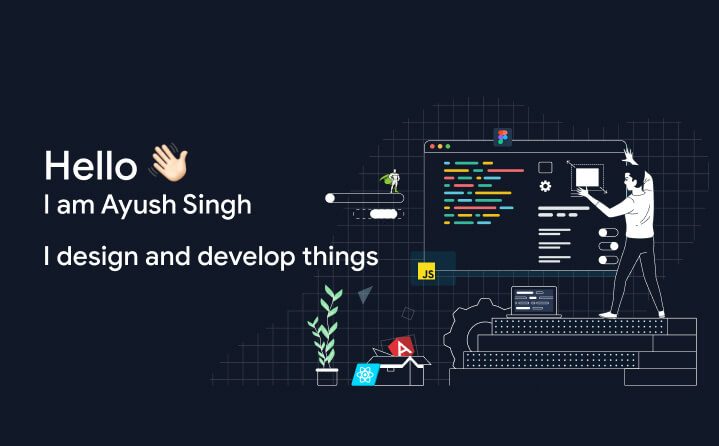
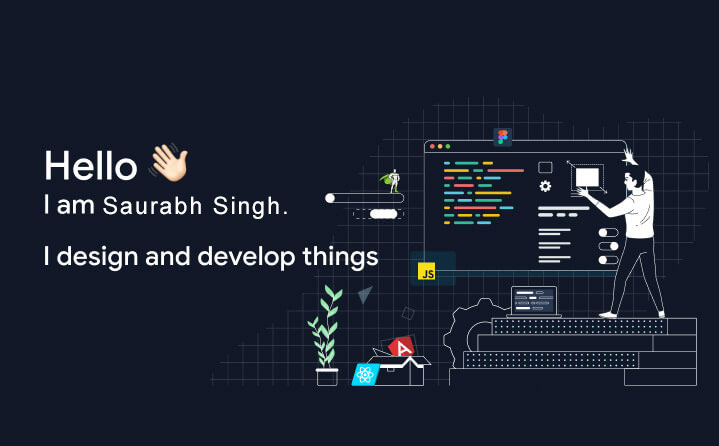
ready portfolio

Changed region(s): [[0.1224, 0.4372, 0.3978, 0.4955]]

diff --git a/constants.ts b/constants.ts
@@ -179,7 +179,7 @@ export enum ItemSize {
 export const TIMELINE: Array<TimelineNodeV2> = [
   {
     type: NodeTypes.CHECKPOINT,
-    title: "2021",
+    title: "2022",
     size: ItemSize.LARGE,
     shouldDrawLine: false,
     alignment: Branch.LEFT,
@@ -188,15 +188,15 @@ export const TIMELINE: Array<TimelineNodeV2> = [
     type: NodeTypes.CHECKPOINT,
     title: "UI Engineer (Current)",
     size: ItemSize.SMALL,
-    subtitle: "Working on flipkart wholesale platform 😎",
-    image: "/timeline/flipkart.svg",
-    slideImage: "/timeline/flipkart.gif",
+    subtitle: "Working as Founder of Pixidesk 😎",
+    image: "/timeline/ach1.svg",
+    slideImage: "/timeline/ach1.jpg",
     shouldDrawLine: true,
     alignment: Branch.LEFT,
   },
   {
     type: NodeTypes.CHECKPOINT,
-    title: "2020",
+    title: "2021",
     size: ItemSize.LARGE,
     shouldDrawLine: false,
     alignment: Branch.LEFT,
@@ -206,22 +206,22 @@ export const TIMELINE: Array<TimelineNodeV2> = [
   },
   {
     type: NodeTypes.CHECKPOINT,
-    title: "UI Engineer (freelance)",
+    title: "UI Engineer",
     size: ItemSize.SMALL,
     subtitle:
       "Built solutions for employee engagement, productivity and performance 🎯",
-    image: "/timeline/huminos.svg",
-    slideImage: "/timeline/huminos-freelance.jpg",
+    image: "/timeline/ach2.png",
+    slideImage: "/timeline/ach2.jpg",
     shouldDrawLine: true,
     alignment: Branch.RIGHT,
   },
   {
     type: NodeTypes.CHECKPOINT,
-    title: "Motion Graphics (freelance)",
+    title: "flight booking website",
     size: ItemSize.SMALL,
-    subtitle: "Motion Graphics content for Product Launch 🚀",
-    image: "/timeline/octanner.svg",
-    slideImage: "/timeline/aftereffects.jpg",
+    subtitle: "Created travrel booking Website 🚀",
+    image: "/timeline/ach4.png",
+    slideImage: "/timeline/ach4.jpg",
     shouldDrawLine: true,
     alignment: Branch.LEFT,
   },
@@ -237,176 +237,16 @@ export const TIMELINE: Array<TimelineNodeV2> = [
   },
   {
     type: NodeTypes.CHECKPOINT,
-    title: "UI Engineer",
+    title: "Garduated",
     size: ItemSize.SMALL,
     subtitle:
-      "Worked on enterprise blockchain solutions for web. Transforming UI/UX and frontend framework. Built a design system.",
-    image: "/timeline/dltlabs.svg",
-    slideImage: "/timeline/dlt-website.jpg",
+      "Completed my garduation in computer science.",
+    // image: "/timeline/dltlabs.svg",
+    slideImage: "/timeline/ach5.jpg",
     shouldDrawLine: true,
     alignment: Branch.LEFT,
   },
-  {
-    type: NodeTypes.CHECKPOINT,
-    title: "UX Engineer",
-    size: ItemSize.SMALL,
-    subtitle:
-      "First job! 🥳 Product design and development for employee engagement chatbot suite for workplace by facebook",
-    image: "/timeline/huminos.svg",
-    slideImage: "/timeline/huminos-website.jpg",
-    shouldDrawLine: true,
-    alignment: Branch.LEFT,
-  },
-  {
-    type: NodeTypes.CHECKPOINT,
-    title: "Graduated from College 🎓",
-    size: ItemSize.SMALL,
-    subtitle:
-      "Spent 4 years laying the foundation of Frontend Engineering, UI/UX, and Fitness!",
-    image: "/timeline/akgec.svg",
-    slideImage: "/timeline/farewell.jpg",
-    shouldDrawLine: true,
-    alignment: Branch.LEFT,
-  },
-
-  {
-    type: NodeTypes.CHECKPOINT,
-    title: "2018",
-    size: ItemSize.LARGE,
-    shouldDrawLine: false,
-    alignment: Branch.LEFT,
-  },
-  {
-    type: NodeTypes.DIVERGE,
-  },
-  {
-    type: NodeTypes.CHECKPOINT,
-    title: "Student lead at SDC-SI",
-    size: ItemSize.SMALL,
-    subtitle:
-      "Represented a team of 39 talented developers. Served different roles of leadership, project management and delivery.",
-    image: "/timeline/si.svg",
-    slideImage: "/timeline/si-head.jpg",
-    shouldDrawLine: true,
-    alignment: Branch.LEFT,
-  },
-  {
-    type: NodeTypes.CHECKPOINT,
-    title: "Lecture on SVG animations",
-    size: ItemSize.SMALL,
-    subtitle:
-      "Guided 200 students to create their first animated SVG using CSS/SMIL at PHP Workshop, SDC-SI",
-
-    slideImage: "/timeline/svg-lecture.jpg",
-    shouldDrawLine: true,
-    alignment: Branch.LEFT,
-  },
-
-  {
-    type: NodeTypes.CHECKPOINT,
-    title: "2017",
-    size: ItemSize.LARGE,
-    shouldDrawLine: false,
-    alignment: Branch.RIGHT,
-  },
-  {
-    type: NodeTypes.CHECKPOINT,
-    title: "1st position in Web Designing, IMSU",
-    size: ItemSize.SMALL,
-    subtitle:
-      "Competed against 20+ teams for design and development of web project from scratch",
-    slideImage: "/timeline/ims-17.jpg",
-    shouldDrawLine: true,
-    alignment: Branch.RIGHT,
-  },
-
-  {
-    type: NodeTypes.CHECKPOINT,
-    title: "Lecture on Javascript",
-    size: ItemSize.SMALL,
-    subtitle:
-      "Guided 200 students for javascript fundamentals at Game Development workshop, SDC-SI",
-    slideImage: "/timeline/js-17.jpg",
-    shouldDrawLine: true,
-    alignment: Branch.LEFT,
-  },
-
-  {
-    type: NodeTypes.CHECKPOINT,
-    title: "1st position in Web Design, ABES ACM",
-    size: ItemSize.SMALL,
-    subtitle:
-      "Competed in web and graphic design challenge with 100+ participants.",
-    slideImage: "/timeline/abes-17.jpg",
-    shouldDrawLine: true,
-    alignment: Branch.RIGHT,
-  },
-
-  {
-    type: NodeTypes.CHECKPOINT,
-    title: "Lecture on Web Technologies",
-    size: ItemSize.SMALL,
-    subtitle:
-      "Guided 300+ students on getting started with web technologies like HTML/CSS and JS",
-    slideImage: "/timeline/web-17.jpg",
-    shouldDrawLine: true,
-    alignment: Branch.LEFT,
-  },
-  {
-    type: NodeTypes.CHECKPOINT,
-    title: "2016",
-    size: ItemSize.LARGE,
-    shouldDrawLine: false,
-    alignment: Branch.RIGHT,
-  },
-  {
-    type: NodeTypes.CHECKPOINT,
-    title: "1st position in Web Designing, IMSU",
-    size: ItemSize.SMALL,
-    subtitle: "Secured 1st prize in Web design challenge against 50+ teams",
-    slideImage: "/timeline/ims-16.jpg",
-    shouldDrawLine: true,
-    alignment: Branch.RIGHT,
-  },
-  {
-    type: NodeTypes.CONVERGE,
-  },
-  {
-    type: NodeTypes.CHECKPOINT,
-    title: "",
-    size: ItemSize.LARGE,
-    shouldDrawLine: false,
-    alignment: Branch.LEFT,
-  },
-  {
-    type: NodeTypes.CHECKPOINT,
-    title: "UI/UX, Frontend Engineer",
-    size: ItemSize.SMALL,
-    subtitle:
-      "Started journey in SDC-SI, where I learnt the fundamentals of Frontend, UI/UX, Graphic design and more...",
-    image: "/timeline/si.svg",
-    slideImage: "/timeline/si-start.jpg",
-    shouldDrawLine: true,
-    alignment: Branch.LEFT,
-  },
-  {
-    type: NodeTypes.CHECKPOINT,
-    title: "2014",
-    size: ItemSize.LARGE,
-    shouldDrawLine: false,
-    alignment: Branch.LEFT,
-  },
-  {
-    type: NodeTypes.CHECKPOINT,
-    title: "Recognized Themer",
-    size: ItemSize.SMALL,
-    subtitle:
-      "Awarded as recognized themer,  Developed themes and ROMs for Xperia 2011 devices lineup with over 15k+ downloads. Featured on xda portal twice.",
-    image: "/timeline/xda.svg",
-    slideImage: "/timeline/xda-rt.jpg",
-    shouldDrawLine: true,
-    alignment: Branch.LEFT,
-  },
+  
 ];
 
 export type TimelineNodeV2 = CheckpointNode | BranchNode;

diff --git a/components/common/header.tsx b/components/common/header.tsx
@@ -8,12 +8,12 @@ const Header = () => {
   return (
     <header className="w-full fixed top-0 py-8 select-none z-50 bg-gradient-to-b from-gray-900 to-transparent">
       <div className="flex justify-between section-container">
-        <a href="#home" className="link">
+        <a href="#home" className="link head_logo">
           <Image
             src="/logo.svg"
-            alt="Logo - Ayush Singh"
-            width={22}
-            height={22}
+            alt="Logo - Saurabh Singh"
+            width={120}
+            height={60}
           />
         </a>
         <nav className={`outer-menu ${menuVisible ? "menu-visible" : ""}`}>

diff --git a/components/common/footer.tsx b/components/common/footer.tsx
@@ -30,7 +30,7 @@ const Footer = () => {
           name="Resume"
           target="_blank"
           rel="noreferrer"
-          href="/Ayush_Resume.pdf"
+          href="/Saurabh_Resume.pdf"
         ></Button>
         <Button
           classes="ml-3"
@@ -40,7 +40,7 @@ const Footer = () => {
         ></Button>
       </div>
       <h2 className="text-center text-sm sm:text-base mt-8">
-        Designed and Developed with ❤ by Ayush
+        Designed and Developed with ❤ by Saurabh
       </h2>
     </>
   );

diff --git a/pages/index.tsx b/pages/index.tsx
@@ -82,7 +82,7 @@ export default function Home() {
           <CollaborationSection />
           <Footer />
         </main>
-        <Scripts />
+        {/* <Scripts /> */}
       </Layout>
     </>
   );

diff --git a/styles/globals.scss b/styles/globals.scss
@@ -242,3 +242,5 @@ footer {
 .section-title-sm {
   @apply uppercase tracking-widest text-gray-200 text-sm;
 }
+foreignObject img { object-fit: contain; }
+.head_logo { transform: translateY(-24px); }
